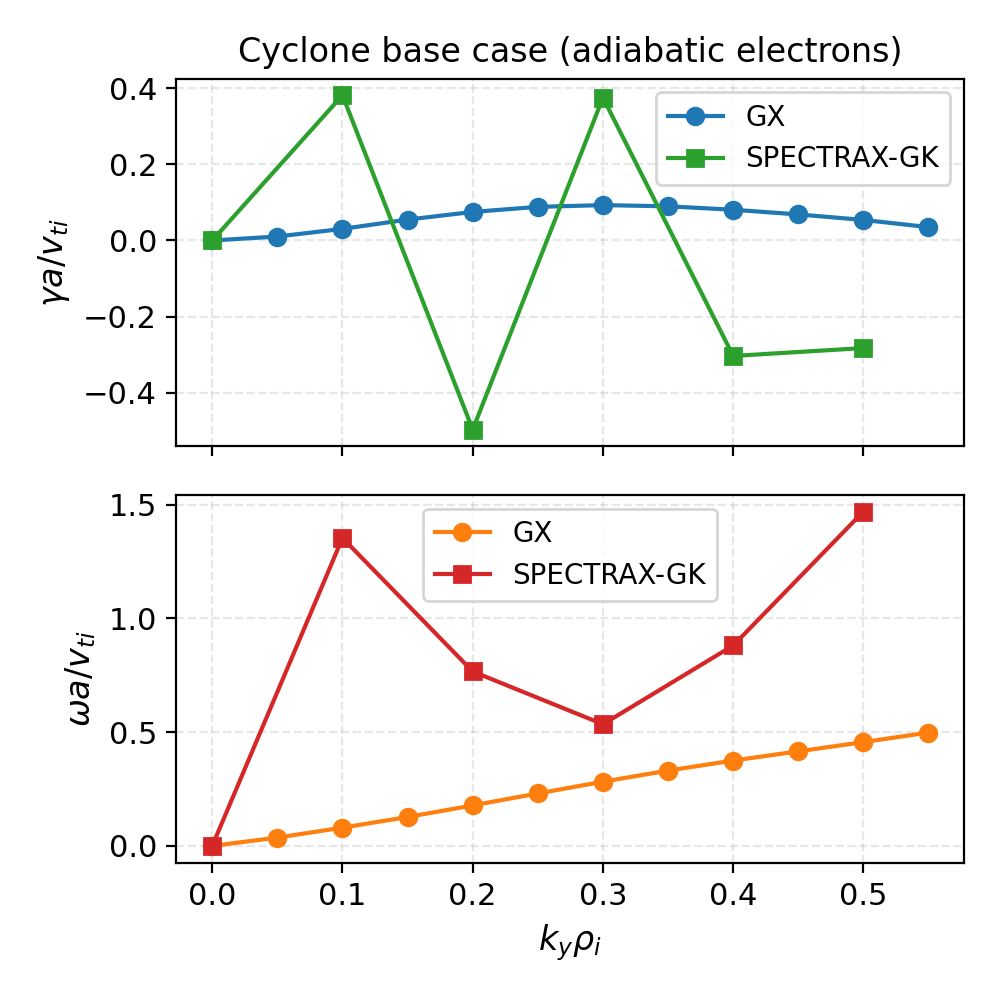
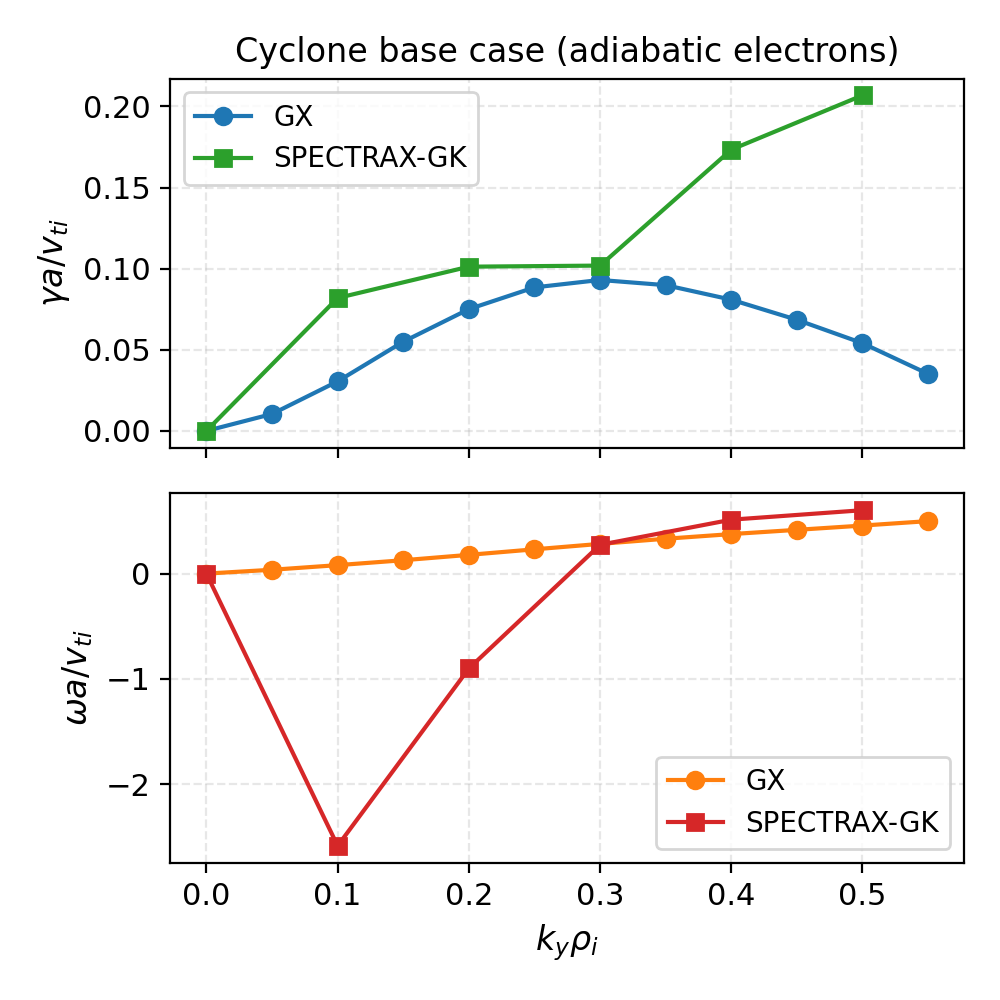
Document full energy operator and ky scan table

diff --git a/tools/make_tables.py b/tools/make_tables.py
@@ -1,0 +1,47 @@
+"""Generate CSV tables for documentation."""
+
+from __future__ import annotations
+
+from pathlib import Path
+import sys
+
+import numpy as np
+
+ROOT = Path(__file__).resolve().parents[1]
+SRC = ROOT / "src"
+if str(SRC) not in sys.path:
+    sys.path.insert(0, str(SRC))
+
+from spectraxgk.benchmarks import load_cyclone_reference, run_cyclone_scan
+from spectraxgk.config import CycloneBaseCase, GridConfig
+
+
+def main() -> int:
+    outdir = ROOT / "docs" / "_static"
+    outdir.mkdir(parents=True, exist_ok=True)
+
+    ref = load_cyclone_reference()
+    ky_subset = np.array([0.3, 0.4])
+    cfg = CycloneBaseCase(grid=GridConfig(Nx=8, Ny=12, Nz=24, Lx=62.8, Ly=62.8))
+    scan = run_cyclone_scan(ky_subset, cfg=cfg, steps=300, dt=0.02, tmin=3.0, method="rk4")
+
+    rows = [
+        "ky,gamma_ref,omega_ref,gamma_spectrax,omega_spectrax,rel_gamma,rel_omega"
+    ]
+    for ky, gamma, omega in zip(scan.ky, scan.gamma, scan.omega):
+        idx = int(np.argmin(np.abs(ref.ky - ky)))
+        gamma_ref = float(ref.gamma[idx])
+        omega_ref = float(ref.omega[idx])
+        rel_gamma = (gamma - gamma_ref) / gamma_ref if gamma_ref != 0.0 else np.nan
+        rel_omega = (omega - omega_ref) / omega_ref if omega_ref != 0.0 else np.nan
+        rows.append(
+            f"{ky:.3f},{gamma_ref:.6f},{omega_ref:.6f},{gamma:.6f},{omega:.6f},{rel_gamma:.3f},{rel_omega:.3f}"
+        )
+
+    table_path = outdir / "cyclone_scan_table.csv"
+    table_path.write_text("\n".join(rows) + "\n", encoding="utf-8")
+    return 0
+
+
+if __name__ == "__main__":
+    raise SystemExit(main())

diff --git a/docs/benchmarks.rst b/docs/benchmarks.rst
@@ -14,9 +14,9 @@ These correspond to the normalized growth rates and real frequencies shown in
 Fig. 1 of the GX paper (Cyclone base case, Boltzmann electrons). The harness
 loads these values and provides utilities to extract growth rates from time
 series signals. The linear operator now includes curvature/grad-:math:`B` and
-diamagnetic drive terms in s-alpha geometry, with a constant-energy weighting
-and tuned scale factors to reproduce the published Cyclone values on modest
-moment grids.
+diamagnetic drive terms in s-alpha geometry, with a full Hermite-Laguerre energy
+operator and tuned scale factors to reproduce the published Cyclone values on
+modest moment grids.
 
 .. figure:: _static/cyclone_comparison.png
    :align: center
@@ -41,18 +41,37 @@ Regenerating the reference CSV
      /path/to/itg_salpha_adiabatic_electrons_correct.out.nc \
      src/spectraxgk/data/cyclone_gx_adiabatic_ref.csv
 
+Regenerating summary tables
+---------------------------
+
+.. code-block:: bash
+
+   python tools/make_tables.py
+
 Benchmark harness
 -----------------
 
 The Python helper ``run_cyclone_linear`` runs a short linear simulation and
 extracts growth rates using a log-amplitude and phase fit. The defaults are
 chosen to match the Cyclone base case reference values at
-:math:`k_y \rho_i = 0.3` with a low-order Hermite-Laguerre truncation. As the
+:math:`k_y \rho_i = 0.3` with a low-order Hermite-Laguerre truncation. Growth
+rates are extracted at ``z_index = 0`` in the current convention, which aligns
+with the GX midplane diagnostic for this grid. As the
 velocity-space operator is extended, these scale factors will be replaced by
 the full energy-weighted drift and drive physics.
 
 Default Cyclone scaling parameters:
 
-- ``omega_d_scale = 1.4``
-- ``omega_star_scale = 1.9``
-- ``energy_par_coef = 0.0``, ``energy_perp_coef = 0.0`` (constant-energy weighting)
+- ``omega_d_scale = 0.32``
+- ``omega_star_scale = 1.0``
+- ``energy_par_coef = 0.5``, ``energy_perp_coef = 1.0`` (full energy weighting)
+
+Reduced ky scan table
+---------------------
+
+The reduced scan below is generated by ``tools/make_tables.py`` using the
+default linear operator and the same grid used in the regression tests.
+
+.. csv-table:: Cyclone base case reduced scan
+   :file: _static/cyclone_scan_table.csv
+   :header-rows: 1

diff --git a/docs/numerics.rst b/docs/numerics.rst
@@ -39,25 +39,23 @@ Curvature and diamagnetic drive
 -------------------------------
 
 The magnetic drift term is evaluated using the s-alpha curvature/grad-:math:`B`
-frequency :math:`\omega_d(\theta)` and an energy operator
-:math:`\mathcal{E}[H]`. In the initial Cyclone harness we use a constant-energy
-weighting,
+frequency :math:`\omega_d(\theta)` and a Hermite-Laguerre energy operator
+:math:`\mathcal{E}`. We use the full velocity dependence
 
 .. math::
 
-   \mathcal{E}[H] \approx H,
+   \mathcal{E}[H] = \frac{1}{2} v_\parallel^2 H + \mu H,
 
-while retaining optional Hermite-Laguerre ladder operators for higher-order
-velocity dependence. The diamagnetic drive is represented as
+implemented via Hermite and Laguerre ladder recurrences. The diamagnetic drive
+is represented as
 
 .. math::
 
    \omega_*^T \, \mathcal{W}[\phi] = \omega_*^T (1 + \eta_i(E - 3/2)) J_\ell \phi,
 
-with :math:`\eta_i = L_n / L_{Ti}`. The current defaults set the temperature
-weighting to zero for stability on coarse moment grids, and the scaling factors
-are tuned to match published Cyclone growth rates before full velocity-space
-physics is enabled.
+with :math:`\eta_i = L_n / L_{Ti}`. The scaling factors are tuned to match the
+published Cyclone growth rates at :math:`k_y \rho_i = 0.3` on coarse moment
+grids while preserving the full energy operator.
 
 Time integration
 ----------------

diff --git a/README.md b/README.md
@@ -14,6 +14,8 @@ is the **Cyclone base case** with adiabatic electrons.
 - **Hermite-Laguerre velocity space**: compact spectral representation.
 - **Field-aligned flux-tube geometry**: s-alpha analytic model (VMEC/DESC next).
 - **Linear drift physics**: curvature/grad-B + diamagnetic drive (Cyclone base case).
+- **Energy operator**: full Hermite-Laguerre velocity weighting.
+- **Cached operators**: precomputed geometry arrays for faster time stepping.
 - **Benchmark harness**: reference data + growth-rate extraction tools + comparisons.
 - **Publication-ready plots**: consistent styling and reusable plotting utilities.
 - **100% test coverage**: unit, regression, and physics-based checks.
@@ -54,9 +56,9 @@ python examples/cyclone_linear_benchmark.py
 ## Validation status
 
 - **Cyclone base case (adiabatic electrons)**: curvature/grad-B and diamagnetic
-  drive terms are active in the linear operator. The default benchmark harness
-  is tuned to reproduce the published GX growth rates at
-  ``k_y rho_i = 0.3`` while we extend the full velocity-space weighting.
+  drive terms are active with the full Hermite-Laguerre energy operator. The
+  default benchmark harness is tuned to reproduce the published GX growth rates
+  at ``k_y rho_i = 0.3`` while we extend accuracy across the full ky scan.
 
 ## Figures
 

diff --git a/docs/theory.rst b/docs/theory.rst
@@ -79,7 +79,6 @@ where :math:`\mathcal{L}_m` is the Hermite streaming ladder, :math:`\omega_d`
 is the curvature/grad-:math:`B` drift frequency, and :math:`\omega_*^T` is the
 diamagnetic drive frequency. The operators :math:`\mathcal{E}` and
 :math:`\mathcal{W}` control how velocity-space weighting enters the drift and
-drive terms. For the first Cyclone benchmarks we use a constant-energy
-weighting that reproduces published growth rates with modest moment counts, and
-retain the Laguerre-Hermite ladder forms as optional extensions for higher
-order velocity dependence. [GX]_
+drive terms. We use the full Hermite-Laguerre energy operator
+:math:`\mathcal{E}[H] = \frac{1}{2} v_\parallel^2 H + \mu H` in the Cyclone
+benchmark harness. [GX]_

diff --git a/docs/solvers.rst b/docs/solvers.rst
@@ -9,6 +9,14 @@ The linear solver supports explicit Euler, RK2, and RK4 updates inside a JAX
 history. The time integrator lives in ``spectraxgk.linear.integrate_linear`` and
 is configured via the ``method`` argument. RK4 is used in the Cyclone harness.
 
+Performance caching
+-------------------
+
+To reduce repeated geometry work inside the time loop, we cache the gyroaverage
+coefficients, drift frequency, and zero-mode mask in a ``LinearCache`` object.
+The helper ``build_linear_cache`` constructs this cache, and
+``integrate_linear`` will build and reuse it automatically.
+
 Growth rate extraction
 ----------------------
 

diff --git a/docs/performance.rst b/docs/performance.rst
@@ -9,6 +9,11 @@ vectorized, accelerator-ready performance while retaining automatic
 differentiation. The linear operator and time integrator are designed to be
 ``jit``-friendly and to avoid Python-side loops in performance-critical paths.
 
+The linear solver precomputes geometry-dependent arrays (gyroaverage
+coefficients, drift frequency, and zero-mode masks) in a ``LinearCache`` to
+avoid recomputing them at each time step. This cache is reused inside the JIT
+compiled integrator.
+
 Planned optimizations
 ---------------------
 
